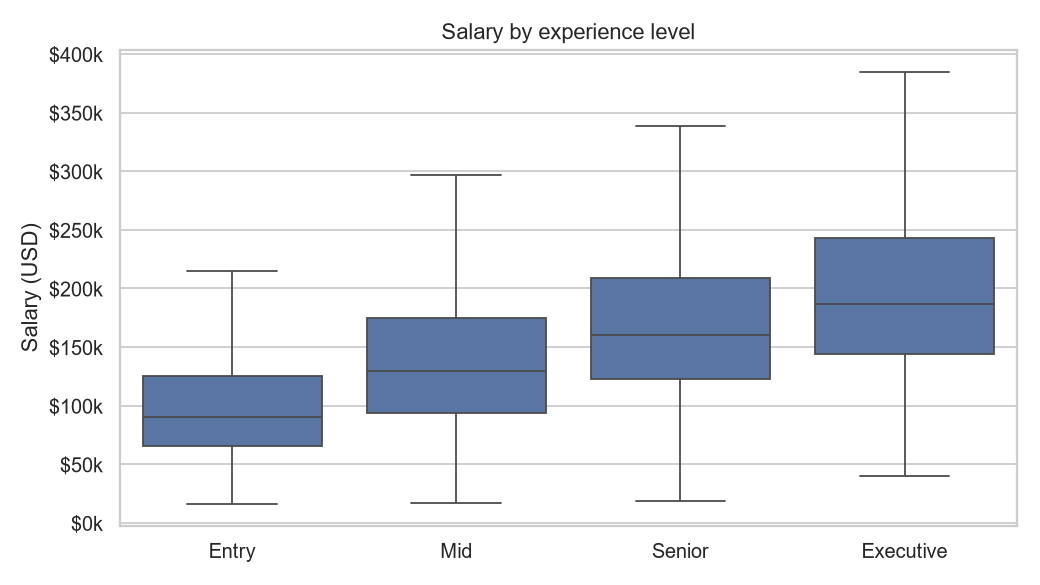
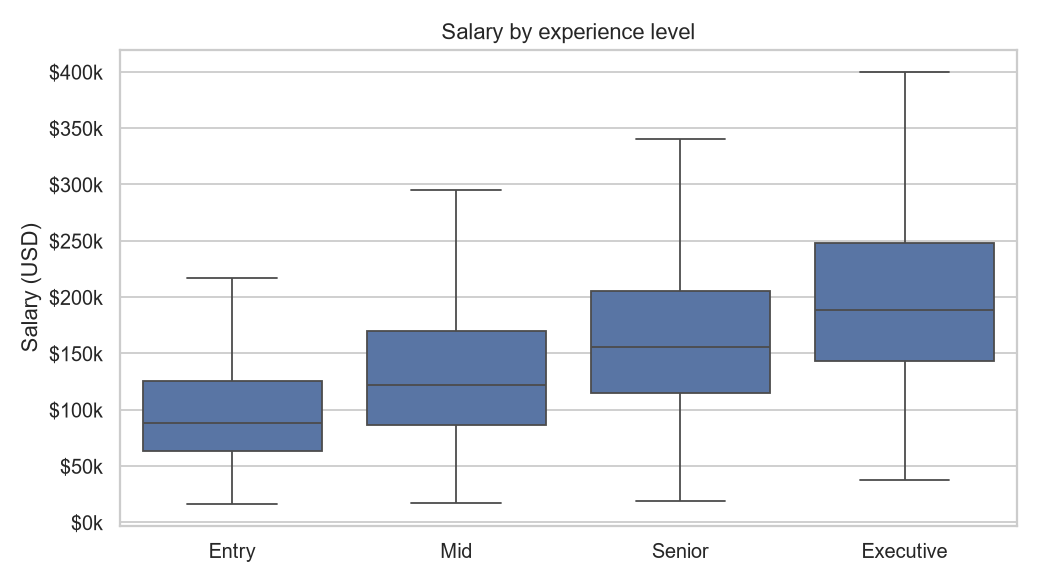
Count identical rows once

diff --git a/src/ds_salary/data.py b/src/ds_salary/data.py
@@ -40,10 +40,14 @@ def load_raw(path: Path | str = DATA_PATH) -> pd.DataFrame:
 def clean(df: pd.DataFrame) -> pd.DataFrame:
     """Decode the survey codes, add job families and drop extreme outliers.
 
+    Rows identical in every column are counted once. About half of the file is
+    exact copies, up to 195 of a single row, and they would otherwise weigh on
+    every median and put the same row on both sides of a train/test split.
+
     Salaries outside the 1st-99th percentile of each year are dropped, since a
     few self-reported values (e.g. a wrong currency) distort the averages.
     """
-    out = df.copy()
+    out = df.drop_duplicates().copy()
     out["experience"] = out["experience_level"].map(EXPERIENCE)
     out["employment"] = out["employment_type"].map(EMPLOYMENT)
     out["company_size_label"] = out["company_size"].map(COMPANY_SIZE)

diff --git a/tests/test_data.py b/tests/test_data.py
@@ -52,6 +52,17 @@ def test_clean_decodes_and_trims():
     assert len(df) < 400  # the 1% tails are removed
 
 
+def test_clean_counts_identical_rows_once():
+    sample = _sample()
+    assert len(clean(pd.concat([sample, sample, sample]))) == len(clean(sample))
+
+
+def test_clean_keeps_rows_that_differ_in_salary():
+    sample = _sample()
+    other = sample.assign(salary_in_usd=sample["salary_in_usd"] + 1)
+    assert len(clean(pd.concat([sample, other]))) > len(clean(sample))
+
+
 def test_model_learns_experience():
     pipe, ev = train_and_evaluate(clean(_sample(2000)))
     base = dict(work_year=2025, employment="Full-time", family="Data Science", company_location="US",

diff --git a/run_analysis.py b/run_analysis.py
@@ -31,7 +31,8 @@ def main():
     lines = [
         "# Results",
         "",
-        f"Rows: {len(raw):,} raw, {len(df):,} after removing the top and bottom 1% per year.",
+        f"Rows: {len(raw):,} in the file, {len(raw.drop_duplicates()):,} distinct, "
+        f"{len(df):,} after removing the top and bottom 1% per year.",
         "",
         "## Median salary by experience (USD)",
         "",

diff --git a/README.md b/README.md
@@ -1,6 +1,6 @@
 # What do AI, ML and data jobs pay?
 
-An analysis of **151,000+ salaries** from the [aijobs.net salary survey](https://aijobs.net/salaries/) (2020 to 2025), plus a small model and command-line tool that estimates a salary for a given role, level and country.
+An analysis of **about 72,000 distinct salary rows** from the [aijobs.net salary survey](https://aijobs.net/salaries/) (2020 to 2025), plus a small model and command-line tool that estimates a salary for a given role, level and country.
 
 ![Median salary by job family](figures/salary_by_family.png)
 
@@ -8,10 +8,10 @@ An analysis of **151,000+ salaries** from the [aijobs.net salary survey](https:/
 
 | | |
 |---|---|
-| **Experience matters most** | Median pay roughly doubles from Entry ($90k) to Executive ($187k). |
-| **ML / AI roles pay the most** | ML and AI roles have a median of $175k, against $105k for analytics and BI roles. |
-| **Remote pays about the same as on-site** | Median $145k remote vs $147k on-site. Hybrid responses are lower ($77k), mostly because they come from smaller markets. |
-| **Location is the second biggest factor** | US companies pay far more than the rest of the sample. 89% of responses come from US companies, so treat other countries with care. |
+| **Experience matters most** | Median pay roughly doubles from Entry ($88k) to Executive ($189k). |
+| **ML / AI roles pay the most** | ML and AI roles have a median of $169k, against $103k for analytics and BI roles. |
+| **Remote pays about the same as on-site** | Median $141k remote vs $138k on-site. Hybrid responses are lower ($76k), mostly because they come from smaller markets. |
+| **Location is the second biggest factor** | US companies pay far more than the rest of the sample. 84% of rows come from US companies, so treat other countries with care. |
 
 Full numbers: [reports/results.md](reports/results.md).
 
@@ -38,14 +38,14 @@ Options: `--experience` (Entry, Mid, Senior, Executive), `--family`, `--country`
 
 ## How it works
 
-1. **Cleaning** ([`data.py`](src/ds_salary/data.py)): decodes the survey codes, groups 400+ job titles into 8 job families, and drops the top and bottom 1% of salaries each year to remove obvious entry errors.
+1. **Cleaning** ([`data.py`](src/ds_salary/data.py)): counts identical rows once, decodes the survey codes, groups 400+ job titles into 8 job families, and drops the top and bottom 1% of salaries each year to remove obvious entry errors.
 2. **Figures** ([`plots.py`](src/ds_salary/plots.py)): the five charts above.
 3. **Model** ([`model.py`](src/ds_salary/model.py)): gradient boosting (`HistGradientBoostingRegressor`) on log salary, using experience, job family, country, company size, work mode, employment type and year. It is compared with a simple baseline: the median salary for the same experience level and job family.
 
 | | Mean absolute error |
 |---|---|
-| Baseline (median by experience and family) | $45,760 |
-| Gradient boosting | $43,362 |
+| Baseline (median by experience and family) | $48,751 |
+| Gradient boosting | $45,157 |
 
 The model only beats the baseline by a small margin. Most of the spread in pay comes from things the survey does not record, such as the company, the city and the person's skills. Use the estimate as a rough range, not a number to negotiate on.
 
@@ -60,6 +60,8 @@ pytest                   # tests
 ## Data
 
 `data/salaries.csv` is a snapshot of [foorilla/ai-jobs-net-salaries](https://github.com/foorilla/ai-jobs-net-salaries), published under CC0 (public domain). Salaries are self-reported and anonymous, and most come from the US, so results for other countries are less reliable.
+
+The file has 151,445 rows but only 71,913 distinct ones: 52.5% are exact copies, and one row appears 195 times. From 2022 on, more than half of the rows also sit next to a row that matches on everything except salary, and the first of the two is usually about 1.5 times the second. That looks like the top and bottom of a posted pay range rather than two people answering a survey, although the file does not say so. Identical rows are counted once here. Pairs that differ in salary are kept, so read these figures as a mix of reported and posted pay.
 
 ## License
 

diff --git a/reports/results.md b/reports/results.md
@@ -1,44 +1,44 @@
 # Results
 
-Rows: 151,445 raw, 148,470 after removing the top and bottom 1% per year.
+Rows: 151,445 in the file, 71,913 distinct, 70,492 after removing the top and bottom 1% per year.
 
 ## Median salary by experience (USD)
 
 | Level | Median |
 |---|---|
-| Entry | $90,000 |
-| Mid | $130,000 |
-| Senior | $160,000 |
-| Executive | $187,000 |
+| Entry | $88,084 |
+| Mid | $122,000 |
+| Senior | $155,413 |
+| Executive | $188,640 |
 
 ## Median salary by job family (USD)
 
 | Family | Median | Responses |
 |---|---|---|
-| Machine Learning / AI | $175,275 | 13,574 |
-| Research | $170,112 | 8,934 |
-| Software Engineering | $165,033 | 35,875 |
-| Management | $161,270 | 15,002 |
-| Data Science | $150,000 | 18,564 |
-| Data Engineering | $143,100 | 20,620 |
-| Other | $126,100 | 10,516 |
-| Analytics / BI | $104,500 | 25,385 |
+| Machine Learning / AI | $168,700 | 6,386 |
+| Management | $161,344 | 8,135 |
+| Research | $160,000 | 3,850 |
+| Software Engineering | $150,000 | 15,083 |
+| Data Science | $142,100 | 7,103 |
+| Data Engineering | $139,152 | 9,659 |
+| Other | $124,824 | 6,606 |
+| Analytics / BI | $102,960 | 13,670 |
 
 ## Median salary by work mode (USD)
 
 | Mode | Median |
 |---|---|
-| Hybrid | $77,098 |
-| On-site | $147,000 |
-| Remote | $145,000 |
+| Hybrid | $75,683 |
+| On-site | $138,000 |
+| Remote | $140,600 |
 
 ## Model
 
-Gradient boosting on log salary, 118,776 training rows, 29,694 test rows.
+Gradient boosting on log salary, 56,393 training rows, 14,099 test rows.
 
 | | Mean absolute error |
 |---|---|
-| Baseline (median by experience and family) | $45,760 |
-| Gradient boosting | $43,362 |
+| Baseline (median by experience and family) | $48,751 |
+| Gradient boosting | $45,157 |
 
-R^2 on log salary: 0.343
+R^2 on log salary: 0.359
